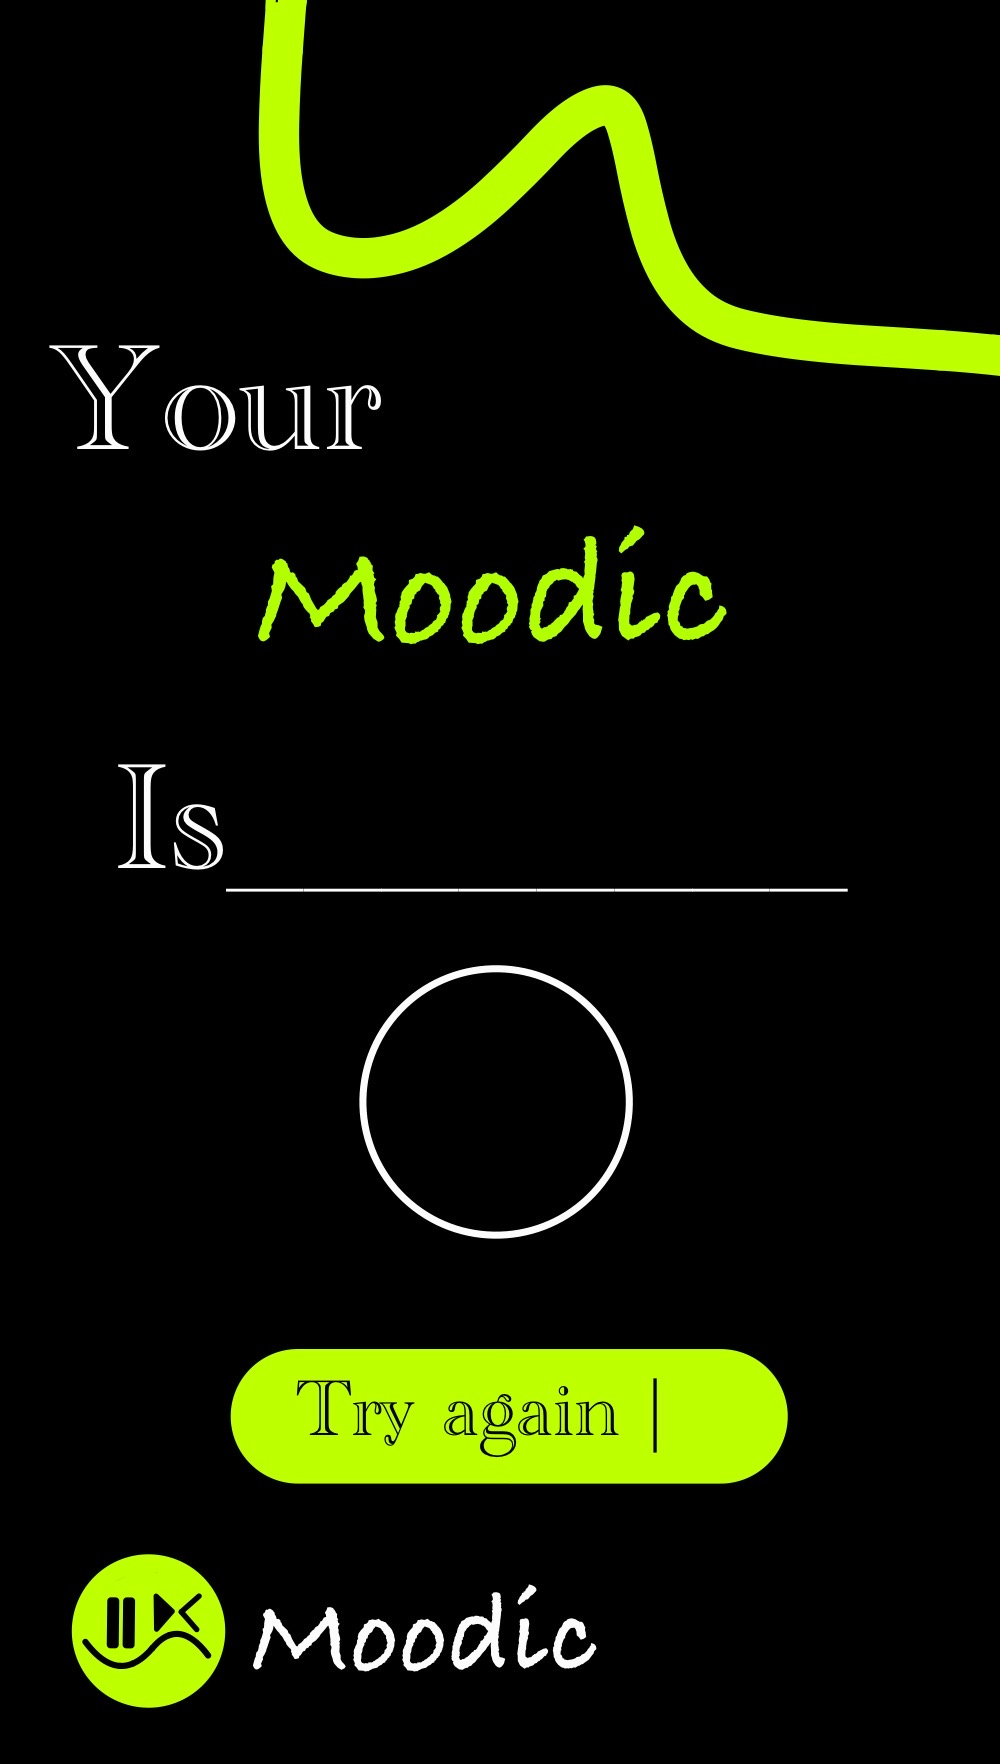
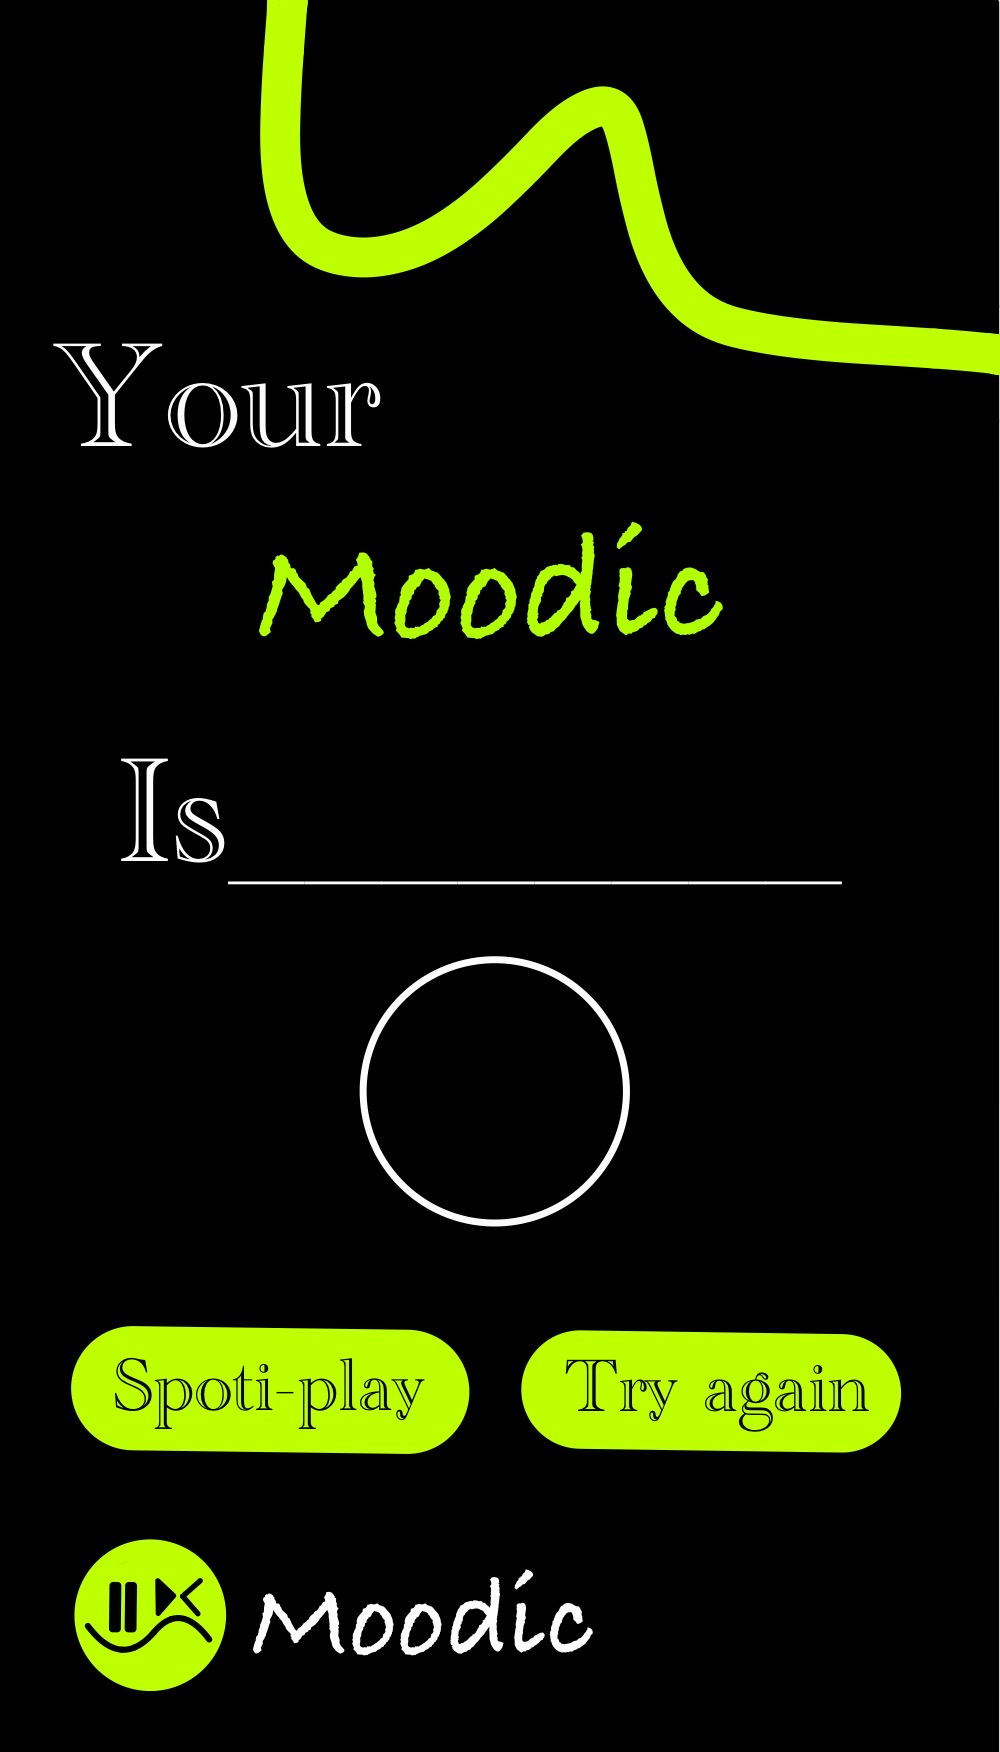
update gui

diff --git a/GUI/home_gui.py b/GUI/home_gui.py
@@ -34,24 +34,13 @@ class HomeApp(App):
         main_layout.add_widget(self.emotion_label)
         # endregion
 
-        # region set a button for switching view and stages in the application
-        # primary settings
-        self.switch_view_button = Button(
-            pos_hint={"center_x": .49, "center_y": .209},
-            size_hint=(0.5, 0.081),
-            background_color="black",
-            background_normal='',
-            opacity=0
-        )
-        self.switch_view_button.bind(on_press=self.switch_open_win_to_scan_win)
-        main_layout.add_widget(self.switch_view_button)
-        # endregion
+
 
         # region button try again
         # primary settings
         self.try_again_button = Button(
-            pos_hint={"center_x": .51, "center_y": .196},
-            size_hint=(0, 0),
+            pos_hint={"center_x": .712, "center_y": .203},
+            size_hint=(0.32, 0.067),
             background_color="black",
             background_normal='',
             opacity=0,
@@ -64,15 +53,28 @@ class HomeApp(App):
         # region button transferring to spotify
         # primary settings
         self.transferring_button = Button(
-            pos_hint={"center_x": .51, "center_y": .05},
-            size_hint=(0.49, 0.0775),
-            background_color="yellow",
+            pos_hint={"center_x": .27, "center_y": .205},
+            size_hint=(0.32, 0.07),
+            background_color="black",
             background_normal='',
             opacity=0,
             disabled=True
         )
         self.transferring_button.bind(on_press=self.transferring_view_to_spotify, on_release=self.start_spotify)
         main_layout.add_widget(self.transferring_button)
+        # endregion
+
+        # region set a button for switching view and stages in the application
+        # primary settings
+        self.switch_view_button = Button(
+            pos_hint={"center_x": .49, "center_y": .209},
+            size_hint=(0.5, 0.081),
+            background_color="black",
+            background_normal='',
+            opacity=0
+        )
+        self.switch_view_button.bind(on_press=self.switch_open_win_to_scan_win)
+        main_layout.add_widget(self.switch_view_button)
         # endregion
 
         # region emotion image
@@ -125,11 +127,9 @@ class HomeApp(App):
 
         # update try again button
         self.try_again_button.disabled = False
-        self.try_again_button.size_hint = (0.49, 0.0775)
 
         # update the spotify button
         self.transferring_button.disabled = False
-        self.transferring_button.opacity = 0.5  # TODO: change to 0
 
         return self
 

diff --git a/emotion/find_emotion.py b/emotion/find_emotion.py
@@ -14,6 +14,7 @@ MIN_AREA = 500
 ##############################
 # endregion
 
+
 # region scanning_emotion
 def scanning_emotion():
     """
@@ -33,9 +34,8 @@ def scanning_emotion():
             index_biggest_emotion = i
             counter_biggest_emotion = expressed_emotions[i]
     return emotionEnum(index_biggest_emotion).name
-
-
 # endregion
+
 
 # region scanning_face
 def scanning_face():
@@ -64,7 +64,7 @@ def scanning_face():
         faces_from_frame = face_cascade.detectMultiScale(imgGray, 2, 4)
 
         # classifying each face and adding the emotion to the counter
-        for (x, y, w, h) in faces_from_frame:  # TODO limit to the biggest face?
+        for (x, y, w, h) in faces_from_frame:
             area = w * h
             if area > MIN_AREA:  # the face is big enough for emotion detection
                 emt = emotion(img[y:y + h, x:x + w])

diff --git a/spotify/search_in_spotify.py b/spotify/search_in_spotify.py
@@ -24,7 +24,8 @@ def search_in_spotify(emotion):
 
     # play the songs!
     print(
-        f'About to play {len(tracks.items)} tracks for "{search_string}" on {available_device.name} ({available_device.type})')
+        f'About to play {len(tracks.items)} tracks for "{search_string}"'
+        f' on {available_device.name} ({available_device.type})')
     for index, track in enumerate(tracks.items):
         print(index + 1, track.name)
 
